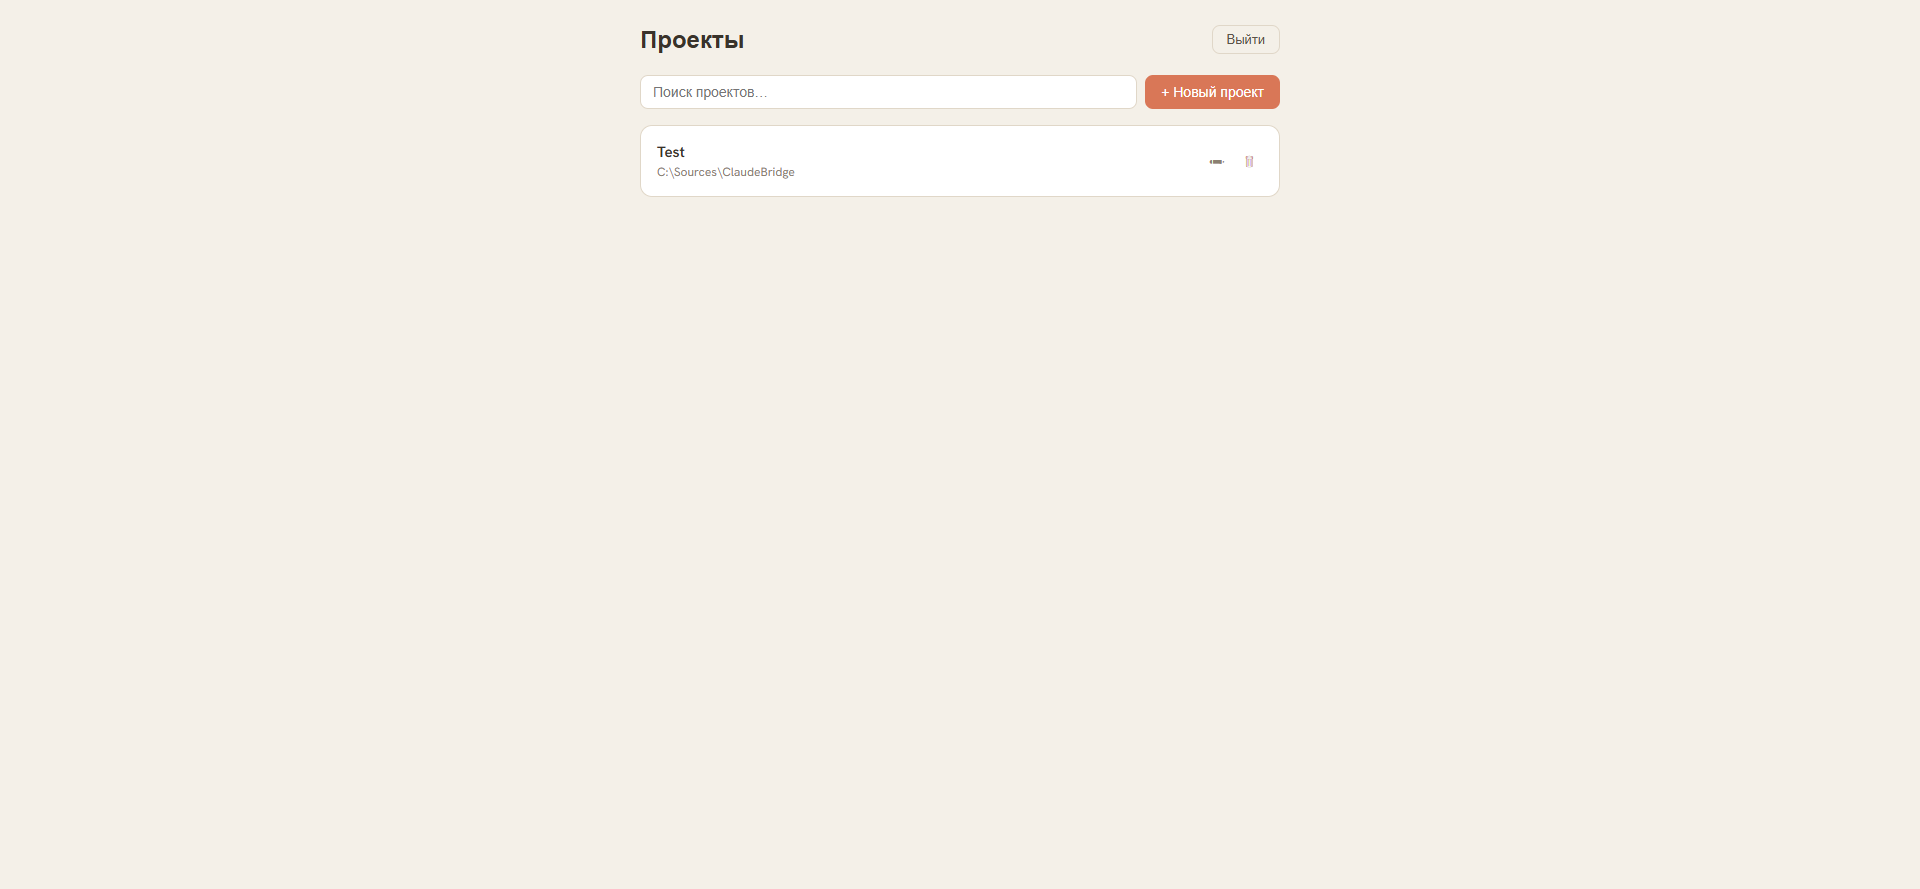
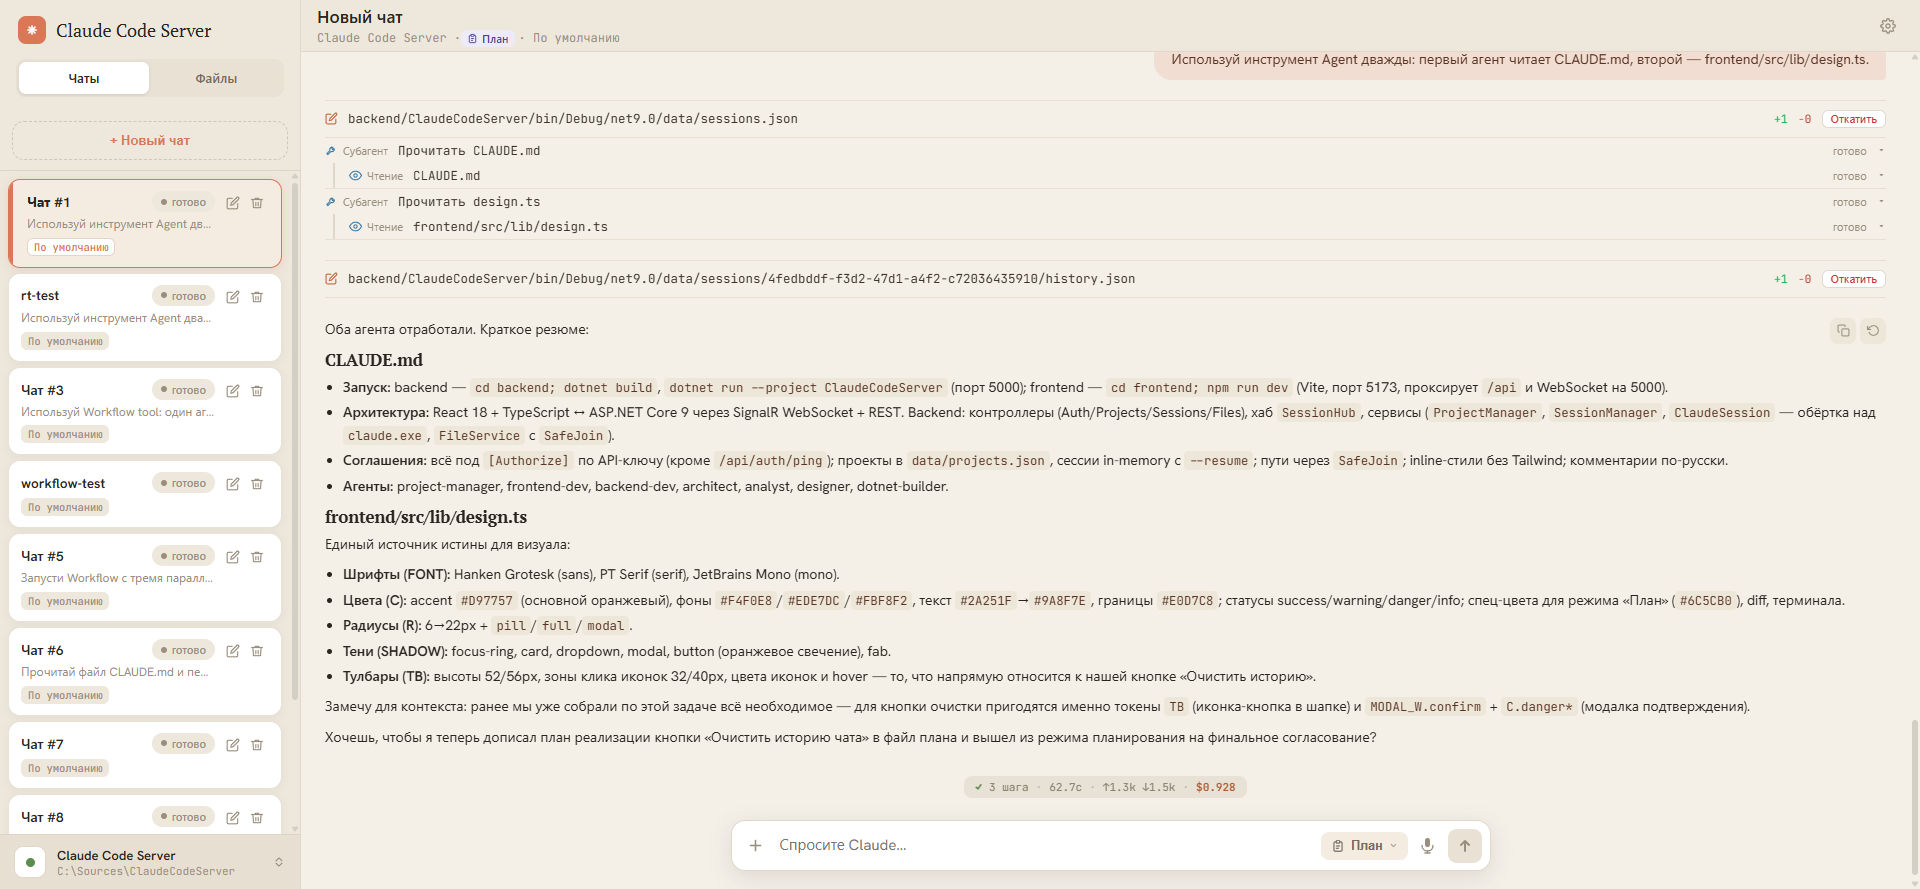
fix(useSession): сохранять parentToolUseId при обновлении tool_use
При получении обновлённого tool_use теперь parentToolUseId берётся из
нового сообщения (или сохраняется из существующего), чтобы не терять
группировку субагентов при переполнении.

diff --git a/frontend/src/hooks/useSession.ts b/frontend/src/hooks/useSession.ts
@@ -115,7 +115,7 @@ function ensureHandler() {
           if (idx >= 0) {
             const next = [...items];
             const ex = next[idx] as Extract<ChatItem, { kind: 'tool_use' }>;
-            next[idx] = { ...ex, name: msg.name, input: msg.input, streamingArg: undefined };
+            next[idx] = { ...ex, name: msg.name, input: msg.input, streamingArg: undefined, parentToolUseId: msg.parentToolUseId ?? ex.parentToolUseId };
             return next;
           }
           return [...items, { kind: 'tool_use', id: msg.id, name: msg.name, input: msg.input, parentToolUseId: msg.parentToolUseId }];